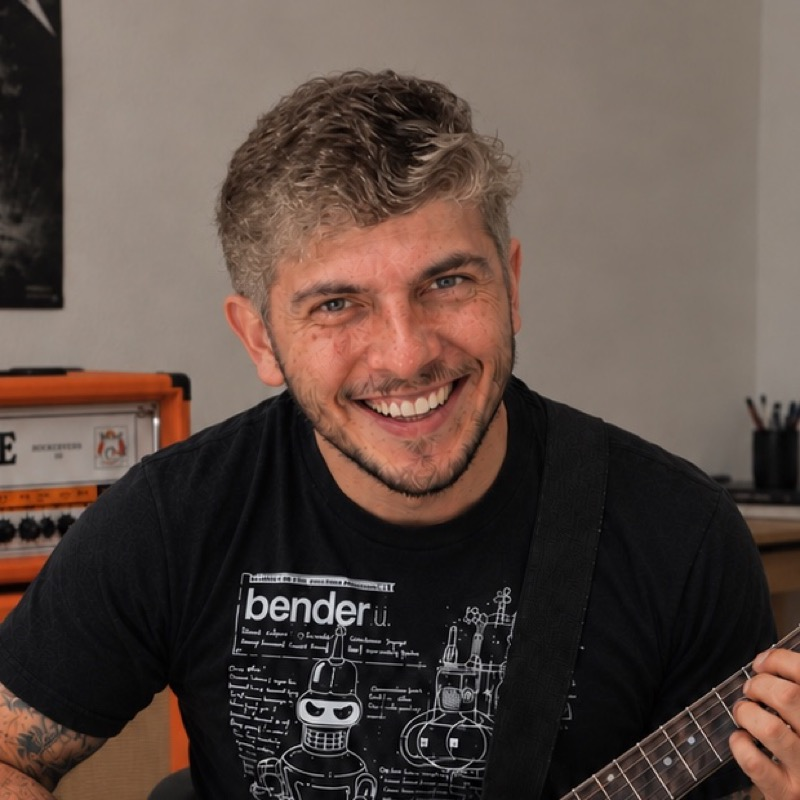
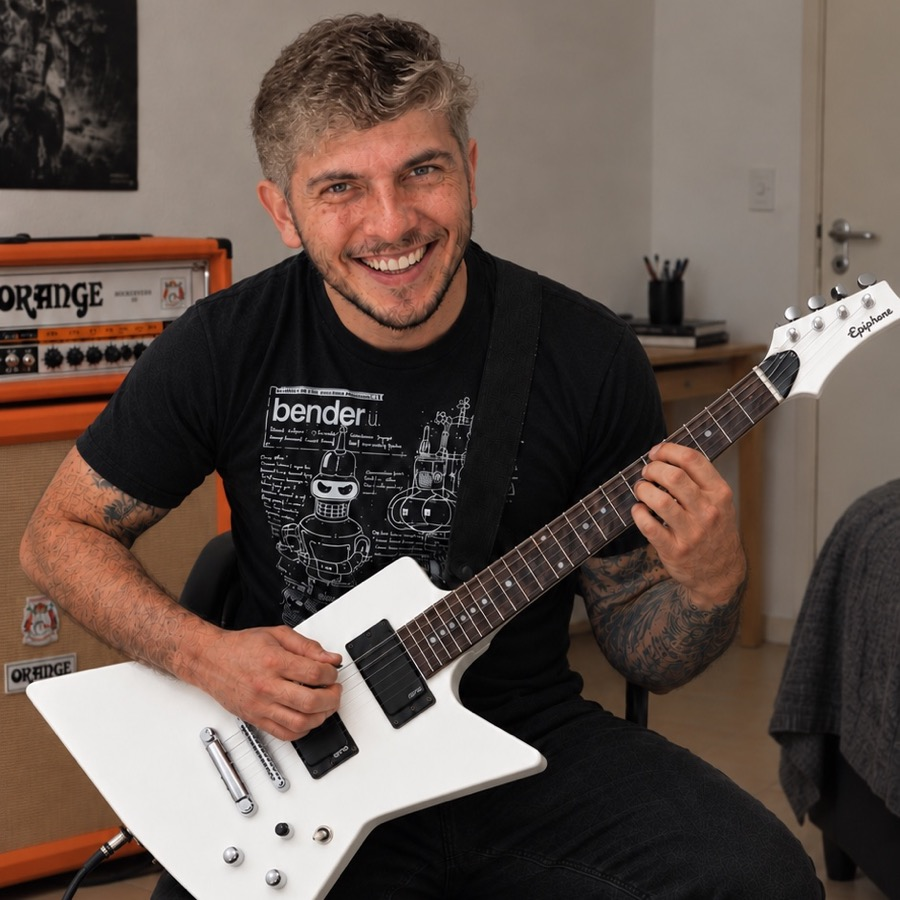
Abre o enquadramento da foto para mostrar a guitarra
O recorte anterior fechava no rosto e escondia o instrumento. Novo corte
quadrado (900x900) inclui a guitarra inteira e as duas mãos, mantendo o
rosto nítido dentro do avatar circular.

Claude-Session: https://claude.ai/code/session_01KfRs8ALXbBMvUbMzgP4HCZ

diff --git a/index.html b/index.html
@@ -70,7 +70,7 @@
         <aside class="hero__aside">
           <div class="avatar">
             <img src="assets/img/avatar.jpg"
-                 alt="Foto de perfil de Uriel Juliatti" width="800" height="800">
+                 alt="Uriel Juliatti sorrindo enquanto toca guitarra" width="900" height="900">
           </div>
           <div>
             <h4>Stack principal</h4>

diff --git a/README.md b/README.md
@@ -36,5 +36,6 @@ chamar `<usuario>.github.io`. Em qualquer outro nome, o site é servido em
 
 ## Foto de perfil
 
-`assets/img/avatar.jpg` é um recorte quadrado (800x800) da foto original,
-enquadrado no rosto para funcionar bem no avatar circular do topo.
+`assets/img/avatar.jpg` é um recorte quadrado (900x900) da foto original,
+aberto o suficiente para mostrar a guitarra e mantendo o rosto nítido no
+avatar circular do topo.
